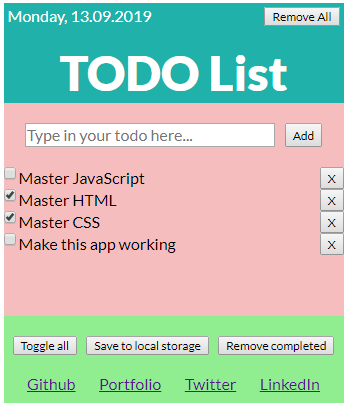
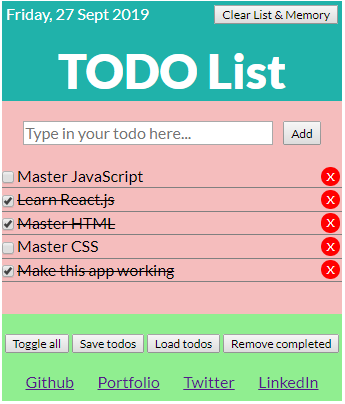
updated description of the todo list ver 2

Changed region(s): [[0.0, 0.0, 0.9855, 1.0], [0.058, 0.297, 0.9275, 0.3861], [0.8986, 0.3861, 1.0, 0.7129]]

diff --git a/index.html b/index.html
@@ -155,12 +155,12 @@
 			<div class="project">
 				<div class="project-screenshot">
 					<a href="https://charming-wine.surge.sh/">
-						<img class="screenshot" src="assets/img/ToDoListVer2Screenshot.png" alt="ToDo List Screenshot">
+						<img class="screenshot" src="assets/img/ToDoListVer2Screenshot.png" alt="ToDo List ver. 2 Screenshot">
 					</a>
 				</div>
 				<div class="project-description">
 					<h3>ToDo List ver. 2</h3>
-					<p>New, improved version of the first app. All coded by me from the ground up. Few options and styling need more work, but I am working on this project with daily improvement:
+					<p>New, improved version of the first app. All coded by me from the ground up. I need to work out nice styling and responsiveness, but all the features are working:
 						<a class="project-link" href="https://charming-wine.surge.sh/" title="ToDo List ver. 2 Website">Demo</a>
 					</p>
 				</div>
